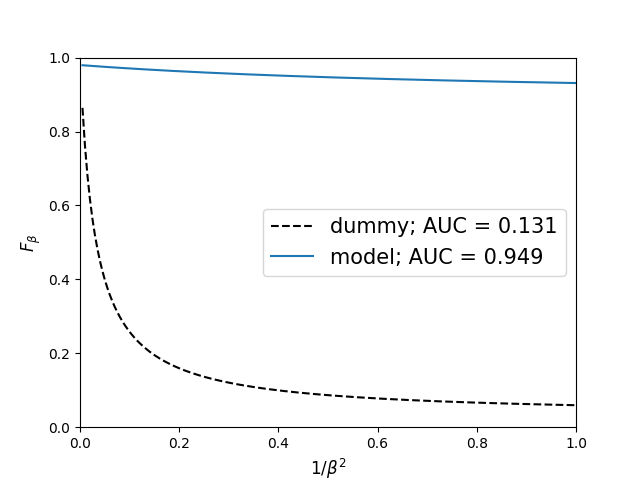
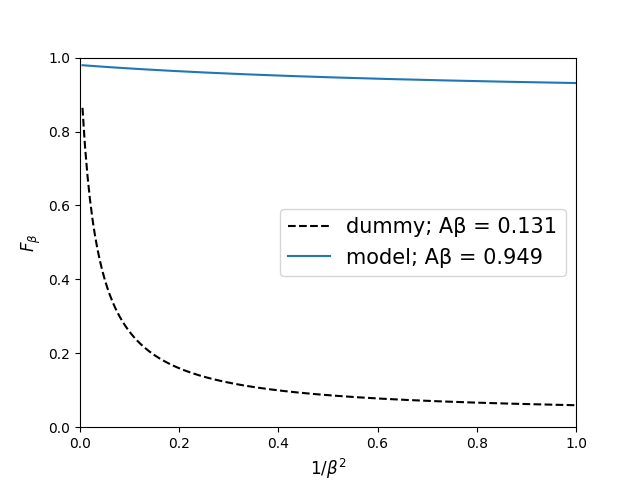
updating fbetarecall charts

Changed region(s): [[0.4062, 0.4375, 0.75, 0.5625], [0.75, 0.4375, 0.875, 0.5625], [0.4062, 0.5312, 0.4375, 0.5625]]

diff --git a/Classification/src/fbeta_recall.py b/Classification/src/fbeta_recall.py
@@ -31,8 +31,8 @@ def fbeta(network_model, batch_size, n_epochs, optimizer, data_set='heridal', tr
     dummy = (beta2_array + 1)*(.5)/(.5*beta2_array + 1)
     dummy_area = (2*np.sum(dummy) - dummy[0] - dummy[199])/(2*199)
 
-    label = 'model; AUC = {:.3f}'
-    dummy_label = 'dummy; AUC = {:.3f}'
+    label = 'model; A\u03B2 = {:.3f}'
+    dummy_label = 'dummy; A\u03B2 = {:.3f}'
     plt.figure()
     plt.rc('axes', labelsize=12)
     plt.rc('legend', fontsize=15)
@@ -73,8 +73,8 @@ def fbeta(network_model, batch_size, n_epochs, optimizer, data_set='heridal', tr
         dummy_area = (2*np.sum(dummy) - dummy[0] - dummy[199])/(2*199)
 
 
-        label = 'model; AUC = {:.3f}'
-        dummy_label = 'dummy; AUC = {:.3f}'
+        label = 'model; A\u03B2 = {:.3f}'
+        dummy_label = 'dummy; A\u03B2 = {:.3f}'
         plt.figure()
         plt.rc('axes', labelsize=12)
         plt.rc('legend', fontsize=15) 
